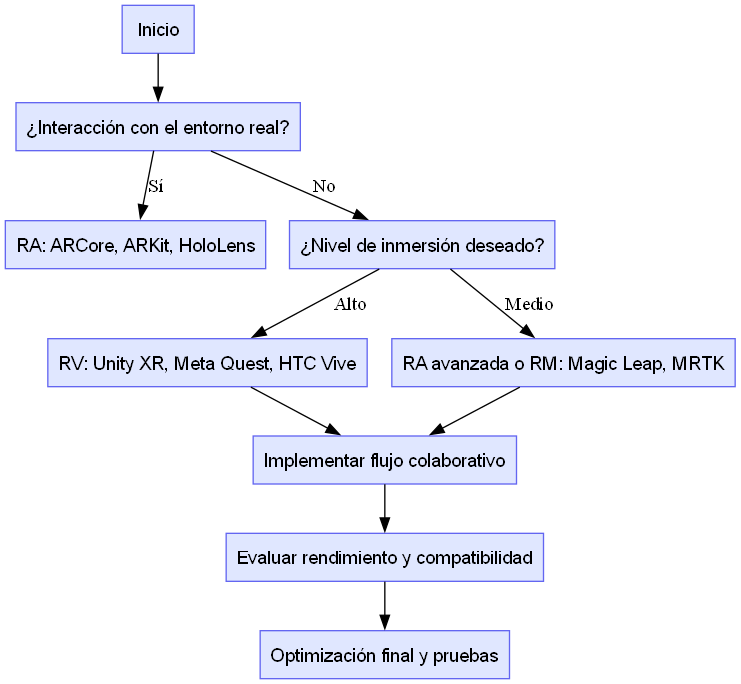
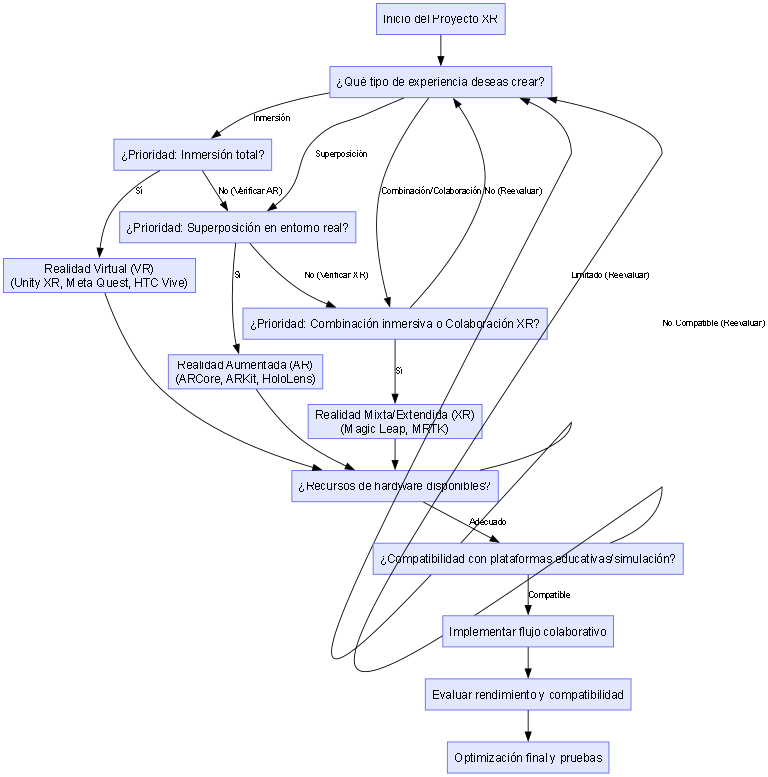
Agregar archivos nuevos del módulo 2

diff --git a/modulo2/xr_flujo_decision.py b/modulo2/xr_flujo_decision.py
@@ -1,35 +1,70 @@
 from graphviz import Digraph
 
 # Crear el diagrama de flujo
-dot = Digraph('XR_Flujo_Decision', filename='XR_Flujo_Decision.gv', format='png')
+dot = Digraph('XR_Flujo_Decision_Refinado', filename='XR_Flujo_Decision_Refinado.gv', format='png')
 dot.attr(rankdir='TB', size='8,10')
 
 # Estilos generales
 dot.attr('node', shape='rectangle', style='filled', fillcolor='#E0E7FF', color='#6366F1', fontname='Arial')
+dot.attr('edge', fontname='Arial', fontsize='10')
 
 # Nodos del flujo
-dot.node('A', 'Inicio')
-dot.node('B', '¿Interacción con el entorno real?')
-dot.node('C', 'RA: ARCore, ARKit, HoloLens')
-dot.node('D', '¿Nivel de inmersión deseado?')
-dot.node('E', 'RV: Unity XR, Meta Quest, HTC Vive')
-dot.node('F', 'RA avanzada o RM: Magic Leap, MRTK')
-dot.node('G', 'Implementar flujo colaborativo')
-dot.node('H', 'Evaluar rendimiento y compatibilidad')
-dot.node('I', 'Optimización final y pruebas')
+dot.node('Inicio', 'Inicio del Proyecto XR')
+
+# Pregunta inicial (Según tu descripción)
+dot.node('Q_EXP', '¿Qué tipo de experiencia deseas crear?')
+
+# Ramificaciones principales (Inmersión, Superposición, Combinación)
+dot.node('Q_INM', '¿Prioridad: Inmersión total?')
+dot.node('Q_SUP', '¿Prioridad: Superposición en entorno real?')
+dot.node('Q_COMB', '¿Prioridad: Combinación inmersiva o Colaboración XR?')
+
+
+# Rutas de Tecnología
+dot.node('VR', 'Realidad Virtual (VR)\n(Unity XR, Meta Quest, HTC Vive)')
+dot.node('AR', 'Realidad Aumentada (AR)\n(ARCore, ARKit, HoloLens)')
+dot.node('XR', 'Realidad Mixta/Extendida (XR)\n(Magic Leap, MRTK)') # Renombrado de 'F' a 'XR' para claridad
+
+# Factores de decisión adicionales
+dot.node('Q_HW', '¿Recursos de hardware disponibles?')
+dot.node('Q_COMP', '¿Compatibilidad con plataformas educativas/simulación?')
+
+# Pasos finales
+dot.node('IMPL', 'Implementar flujo colaborativo')
+dot.node('EVAL', 'Evaluar rendimiento y compatibilidad') # Mantenemos evaluación final de rendimiento
+dot.node('OPTIM', 'Optimización final y pruebas')
 
 # Conexiones
-dot.edge('A', 'B')
-dot.edge('B', 'C', label='Sí')
-dot.edge('B', 'D', label='No')
-dot.edge('D', 'E', label='Alto')
-dot.edge('D', 'F', label='Medio')
-dot.edge('E', 'G')
-dot.edge('F', 'G')
-dot.edge('G', 'H')
-dot.edge('H', 'I')
+dot.edge('Inicio', 'Q_EXP')
+dot.edge('Q_EXP', 'Q_INM', label='Inmersión')
+dot.edge('Q_EXP', 'Q_SUP', label='Superposición')
+dot.edge('Q_EXP', 'Q_COMB', label='Combinación/Colaboración')
+
+# Decisiones de Tecnología
+dot.edge('Q_INM', 'VR', label='Sí')
+dot.edge('Q_INM', 'Q_SUP', label='No (Verificar AR)') # Si no es inmersión total, se evalúa superposición
+
+dot.edge('Q_SUP', 'AR', label='Sí')
+dot.edge('Q_SUP', 'Q_COMB', label='No (Verificar XR)') # Si no es superposición, se evalúa combinación
+
+dot.edge('Q_COMB', 'XR', label='Sí')
+dot.edge('Q_COMB', 'Q_EXP', label='No (Reevaluar)') # Si nada aplica, se vuelve a la pregunta inicial (ciclo de refinamiento)
+
+# Conexiones de los factores adicionales
+dot.edge('VR', 'Q_HW')
+dot.edge('AR', 'Q_HW')
+dot.edge('XR', 'Q_HW')
+
+dot.edge('Q_HW', 'Q_COMP', label='Adecuado')
+dot.edge('Q_HW', 'Q_EXP', label='Limitado (Reevaluar)') # Si el hardware es limitado, se reevalúa el tipo de experiencia
+
+dot.edge('Q_COMP', 'IMPL', label='Compatible')
+dot.edge('Q_COMP', 'Q_EXP', label='No Compatible (Reevaluar)') # Si no es compatible, se reevalúa
+
+dot.edge('IMPL', 'EVAL')
+dot.edge('EVAL', 'OPTIM')
 
 # Exportar el diagrama como imagen PNG
-dot.render('XR_Flujo_Decision', format='png', cleanup=True)
+dot.render(format='png', cleanup=True)
 
-print("✅ Diagrama 'XR_Flujo_Decision.png' generado exitosamente.")
+print("✅ Diagrama 'XR_Flujo_Decision_Refinado.png' generado exitosamente según tus preguntas.")
